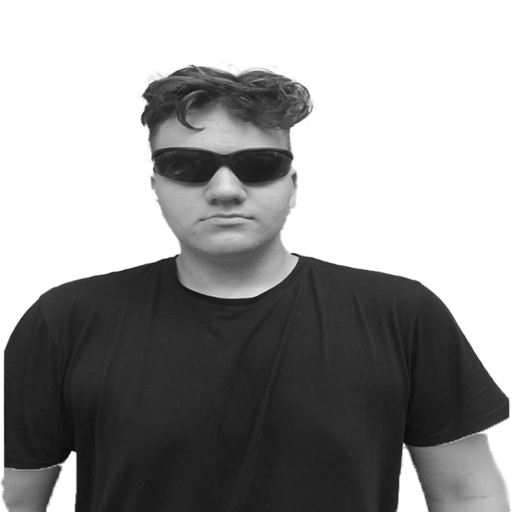
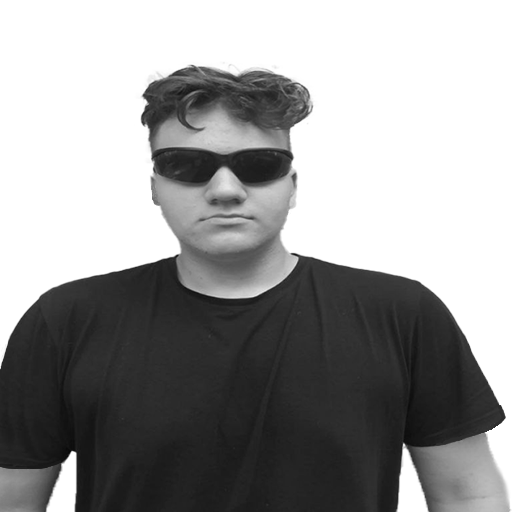
updated some images, saved all important data in one file (lib/data.js), optimization of some function for generation carts

diff --git a/src/lib/data.js b/src/lib/data.js
@@ -1,3 +1,22 @@
+export const gameRules = [
+   {
+      title: "Розподіл ролей",
+      description: "Почнемо з того, що всі гравці отримують свої ролі. Є дві основні групи ролей: мафія і мирні мешканці. Мафія діє у таємниці та намагається залишати свою ідентичність прихованою, в той час як мирні мешканці намагаються розкрити мафію."
+   },
+   {
+      title: "Нічні раунди",
+      description: "Гра складається з нічних і денних раундів. У нічному раунді мафія збирається і вибирає свою жертву. Решта гравців ролі не розкривають і спостерігають, що відбувається під час ночі.",
+   },
+   {
+      title: "Денні раунди",
+      description: " денний час гравці обговорюють події, які сталися під час ночі, та вирішують, кого вони вважають членом мафії. Голосування проводиться з метою виключити гравця з гри. Особа з найбільшою кількістю голосів вилучається з гри, і її роль розкривається."
+   },
+   {
+      title: "Перемога",
+      description: "Гра триває до тих пір, поки одна з груп не переможе. Якщо мафія зможе видалити всіх мирних мешканців, вони переможуть.Якщо мирні мешканці викривають всіх членів мафії, вони переможуть.Гра завершується, коли досягається ця умова."
+   }
+]
+
 export const bigDescriptionList = {
    mans: "Персонажі, що виживають у боротьбі з мафією і намагаються вивести її на чисту воду. Відбір кандидатів на роль мафії відбувається під час денного голосування.",
    mafias: "Злочинці, що діють у нічний час та скоюють вбивства городян. Вдень персонаж зливається з натовпом і виглядає як звичайний мешканець. Знаком пробудження гангстерів стає фраза ведучого «місто засинає, прокидається «мафія» чи його аналоги. Після її виголошення члени мафіозного клану знайомляться між собою та домовляються про майбутні жертви.",
@@ -10,6 +29,7 @@ export const bigDescriptionList = {
 }
 
 export const cardList =
+   //Spreites in the static folder must have the same work as in this list, also tags must be the same as in the bigDescriptionList
    [
       {
          name: 'Мирний',

diff --git a/src/routes/rules/+page.svelte b/src/routes/rules/+page.svelte
@@ -1,26 +1,15 @@
+<script>
+	import { gameRules } from '$lib/data';
+</script>
+
 <div class="rules-conteiner">
 	<h3>Правила гри:</h3>
 	<ol>
-		<li>
-			<span>Розподіл ролей:</span> Почнемо з того, що всі гравці отримують свої ролі. Є дві основні групи
-			ролей: мафія і мирні мешканці. Мафія діє у таємниці та намагається залишати свою ідентичність прихованою,
-			в той час як мирні мешканці намагаються розкрити мафію.
-		</li>
-		<li>
-			<span>Нічні раунди:</span> Гра складається з нічних і денних раундів. У нічному раунді мафія збирається
-			і вибирає свою жертву. Решта гравців ролі не розкривають і спостерігають, що відбувається під час
-			ночі.
-		</li>
-		<li>
-			<span>Денні раунди:</span> У денний час гравці обговорюють події, які сталися під час ночі, та
-			вирішують, кого вони вважають членом мафії. Голосування проводиться з метою виключити гравця з
-			гри. Особа з найбільшою кількістю голосів вилучається з гри, і її роль розкривається.
-		</li>
-		<li>
-			<span>Перемога:</span> Гра триває до тих пір, поки одна з груп не переможе. Якщо мафія зможе видалити
-			всіх мирних мешканців, вони переможуть. Якщо мирні мешканці викривають всіх членів мафії, вони
-			переможуть. Гра завершується, коли досягається ця умова.
-		</li>
+		{#each gameRules as { title, description }}
+			<li>
+				<span>{title}:</span>{description}
+			</li>
+		{/each}
 	</ol>
 
 	<div class="rules-btns-conteiner">

diff --git a/src/lib/functions/createUnicCardList.js b/src/lib/functions/createUnicCardList.js
@@ -2,21 +2,21 @@ import { cardList, bigDescriptionList } from "$lib/data";
 import Randomizer from "$lib/Servises/Randomizer.servise";
 
 
-export default function createUnicCardList() {
-   const uniqueTags = {};
-   let filteredList = [];
+export default function createUniqueCardList() {
+   const tagMap = {};
 
-   cardList.forEach((card) => {
-      card.bigDescription = bigDescriptionList[card.tag]
-      if (!uniqueTags[card.tag]) {
-         uniqueTags[card.tag] = true;
-         filteredList.push(card);
-      } else {
-         if (Randomizer.randomInteger(0, 10) > 6) {
-            filteredList[filteredList.length - 1] = card;
-         }
+   for (const card of cardList) {
+      if (!tagMap[card.tag]) {
+         tagMap[card.tag] = [];
       }
-   });
+      tagMap[card.tag].push(card);
+   }
 
-   return filteredList;
+   return Object.entries(tagMap).map(([tag, cards]) => {
+      const selectedElement = cards[Randomizer.randomInteger(0, cards.length - 1)];
+      return {
+         ...selectedElement,
+         bigDescription: bigDescriptionList[tag],
+      };
+   });
 }

diff --git a/src/routes/play/+page.svelte b/src/routes/play/+page.svelte
@@ -16,6 +16,9 @@
 
 	function changeData(person) {
 		try {
+			if (peopleList.indexOf(person) + 1 == peopleList.length) {
+				return;
+			}
 			showingElement = peopleList[peopleList.indexOf(person) + 1].id;
 			maxVisibleCards++;
 			visiblePeople = peopleList.slice(0, maxVisibleCards).reverse();
@@ -40,8 +43,8 @@
 			console.log(e);
 		}
 		peopleList = createArray(data).map(
-			({ name = 'Мирний', description = 'Ну шо ш?', myImg = 'Man2' }, i) => {
-				return { name, description, myImg, id: i };
+			({ name = 'Мирний', description = 'Ну шо ш?', myImg = 'Man2' }, index) => {
+				return { name, description, myImg, id: index };
 			}
 		);
 
@@ -68,7 +71,8 @@
 
 <style>
 	.center {
-		height: 100lvh;
+		height: 100%;
+		height: 100dvh;
 		width: 100vw;
 		overflow: hidden;
 		display: flex;

diff --git a/src/routes/roles/CardWithText.svelte b/src/routes/roles/CardWithText.svelte
@@ -2,7 +2,8 @@
 	export let name = 'Мирний',
 		description = 'Ну шо ш?',
 		myImg = 'Man2',
-		bigDescription = 'Я Люблю спати вночі';
+		bigDescription = 'Я Люблю спати вночі...',
+		tag = '';
 
 	let flipped = false;
 
@@ -13,7 +14,7 @@
 
 <!-- svelte-ignore a11y-click-events-have-key-events -->
 <!-- svelte-ignore a11y-no-static-element-interactions -->
-<div class="card" class:show={flipped} on:click={flip}>
+<div class={'card ' + tag} class:show={flipped} on:click={flip}>
 	<div class="back">
 		<div class="imgWrapper">
 			<img src="/assets/cards/{myImg}.png" class="my-img" alt={name} />

diff --git a/src/lib/functions/createData.js b/src/lib/functions/createData.js
@@ -1,7 +1,16 @@
 import { cardList } from "$lib/data";
 import Randomizer from "$lib/Servises/Randomizer.servise";
 
-export default function createArray({ mans, mafias, withDoctor, withCop, withKamikaze, withManiac, withSecurity, withLawyer }) {
+export default function createArray({
+   mans = 3,
+   mafias = 1,
+   withDoctor = true,
+   withCop = true,
+   withKamikaze = false,
+   withManiac = false,
+   withSecurity = false,
+   withLawyer = false,
+}) {
 
    let result = [];
 
